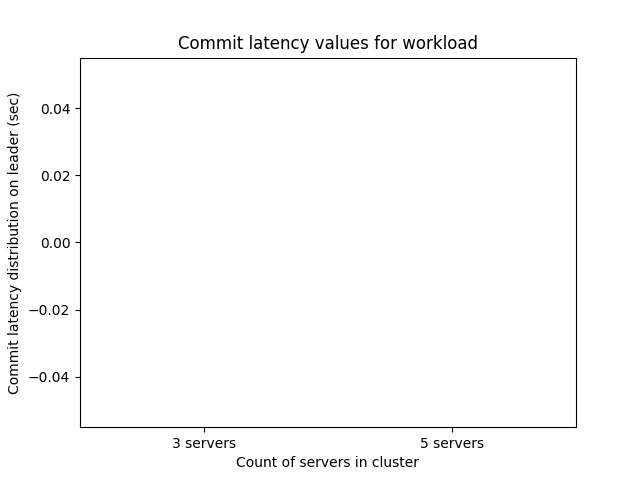
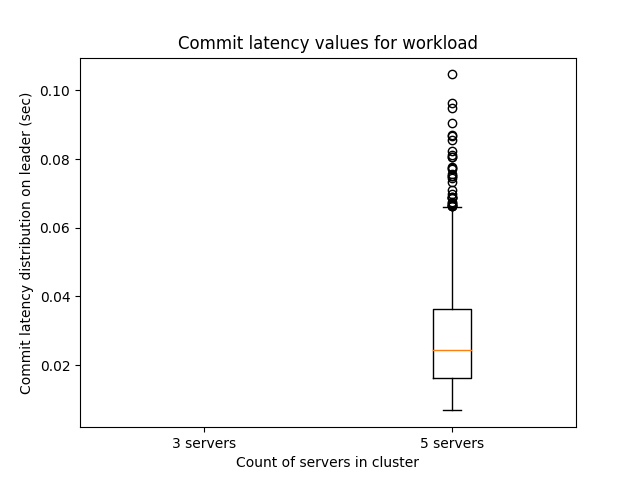
Add availability graph

Changed region(s): [[0.0, 0.1562, 0.125, 0.8125], [0.6562, 0.1875, 0.75, 0.875], [0.6875, 0.125, 0.7188, 0.1562]]

diff --git a/client/perf.py b/client/perf.py
@@ -558,20 +558,21 @@ def plot_put_singleT_leader_killed():
     with open(f'data/3-server-PUT-availability-singlethread-throughput.pickle', 'rb') as f:
         x, mid = pickle.load(f)
     plt.figure(dpi=200)
-    plt.subplot()
-    plt.plot(x, mid, label="3 servers")
+    fig, (ax1, ax2) = plt.subplots(2, 1, sharex=True)
+    ax1.plot(x, mid, label='3 servers')
+    ax1.legend()
     
     x, y = [], []
     with open(f'data/5-server-PUT-availability-singlethread-throughput.pickle', 'rb') as f:
         x, mid = pickle.load(f)
         
-    plt.subplot()
-    plt.plot(x, mid, label="5 servers")
+    ax2.plot(x, mid, label='5 servers')
+    ax2.legend()
     
-    plt.title(f"System Availability on leader crash")
-    plt.xlabel("Time elapsed (sec)")
-    plt.ylabel("Observed throughput (req/s)")
-    plt.legend()
+    plt.suptitle(f"System Availability on leader crash")
+    # plt.xlabel("Time elapsed (sec)")
+    # plt.ylabel("Observed throughput (req/s)")
+    # plt.legend()
     plt.savefig(f'graphs/PUT-singleT-leader-killed.png')
     plt.clf() 
 
@@ -663,7 +664,7 @@ def plot_log_recovery_time():
     plt.clf() 
 
 
-WORKLOAD_DURATION = 300
+WORKLOAD_DURATION = 10
 def _some_workload():
     t1 = time.time()
     while time.time() - t1 < WORKLOAD_DURATION:
@@ -716,13 +717,13 @@ def collect_internal_server_stats():
 def plot_internal_latency():
     data1 = []
     with open(f'data/3-server-stats-commit-latency.pickle', 'rb') as f:
-        data1 = pickle.load(f)
+        data1 = [i[2] for i in pickle.load(f)]
     
     data2 = []
     with open(f'data/5-server-stats-commit-latency.pickle', 'rb') as f:
-        data2 = pickle.load(f)
+        data2 = [i[2] for i in pickle.load(f)]
     
-    print(data1, data2)
+    # print(data1, data2)
     data = [data1, data2]
     labels = ['3 servers', '5 servers']
     plt.boxplot(data, labels=labels)
@@ -861,8 +862,8 @@ if __name__ == "__main__":
     # plot_get_degrade_lat()
     # plot_put_degrade_throughput()
     # plot_put_singleT_throughput()
-    # plot_put_singleT_leader_killed()
+    plot_put_singleT_leader_killed()
     
-    plot_log_recovery_time()
-    # plot_internal_latency()
-    # plot_internal_call_distribution()
+    # plot_log_recovery_time()
+    plot_internal_latency()
+    plot_internal_call_distribution()

diff --git a/server/raft/stats.py b/server/raft/stats.py
@@ -6,7 +6,7 @@ import shelve
 
 class Stats:
 
-    CAPTURE_STATS = False
+    CAPTURE_STATS = True
 
     def __init__(self):
         self.lock = Lock()
@@ -32,8 +32,8 @@ class Stats:
 
     def flush(self):        
         s = shelve.open("/raft-kv-store/logs/logcache/server-rpc-stats")
-        print("KYYVVVS")
-        print(self.kv_request_list)
+        # print("KYYVVVS")
+        # print(self.kv_request_list)
         s["COMMIT_LAT"] = self.commit_latency
         s["KV_REQS"] = self.kv_request_list
         s["RAFT_REQS"] = self.raft_request_list
